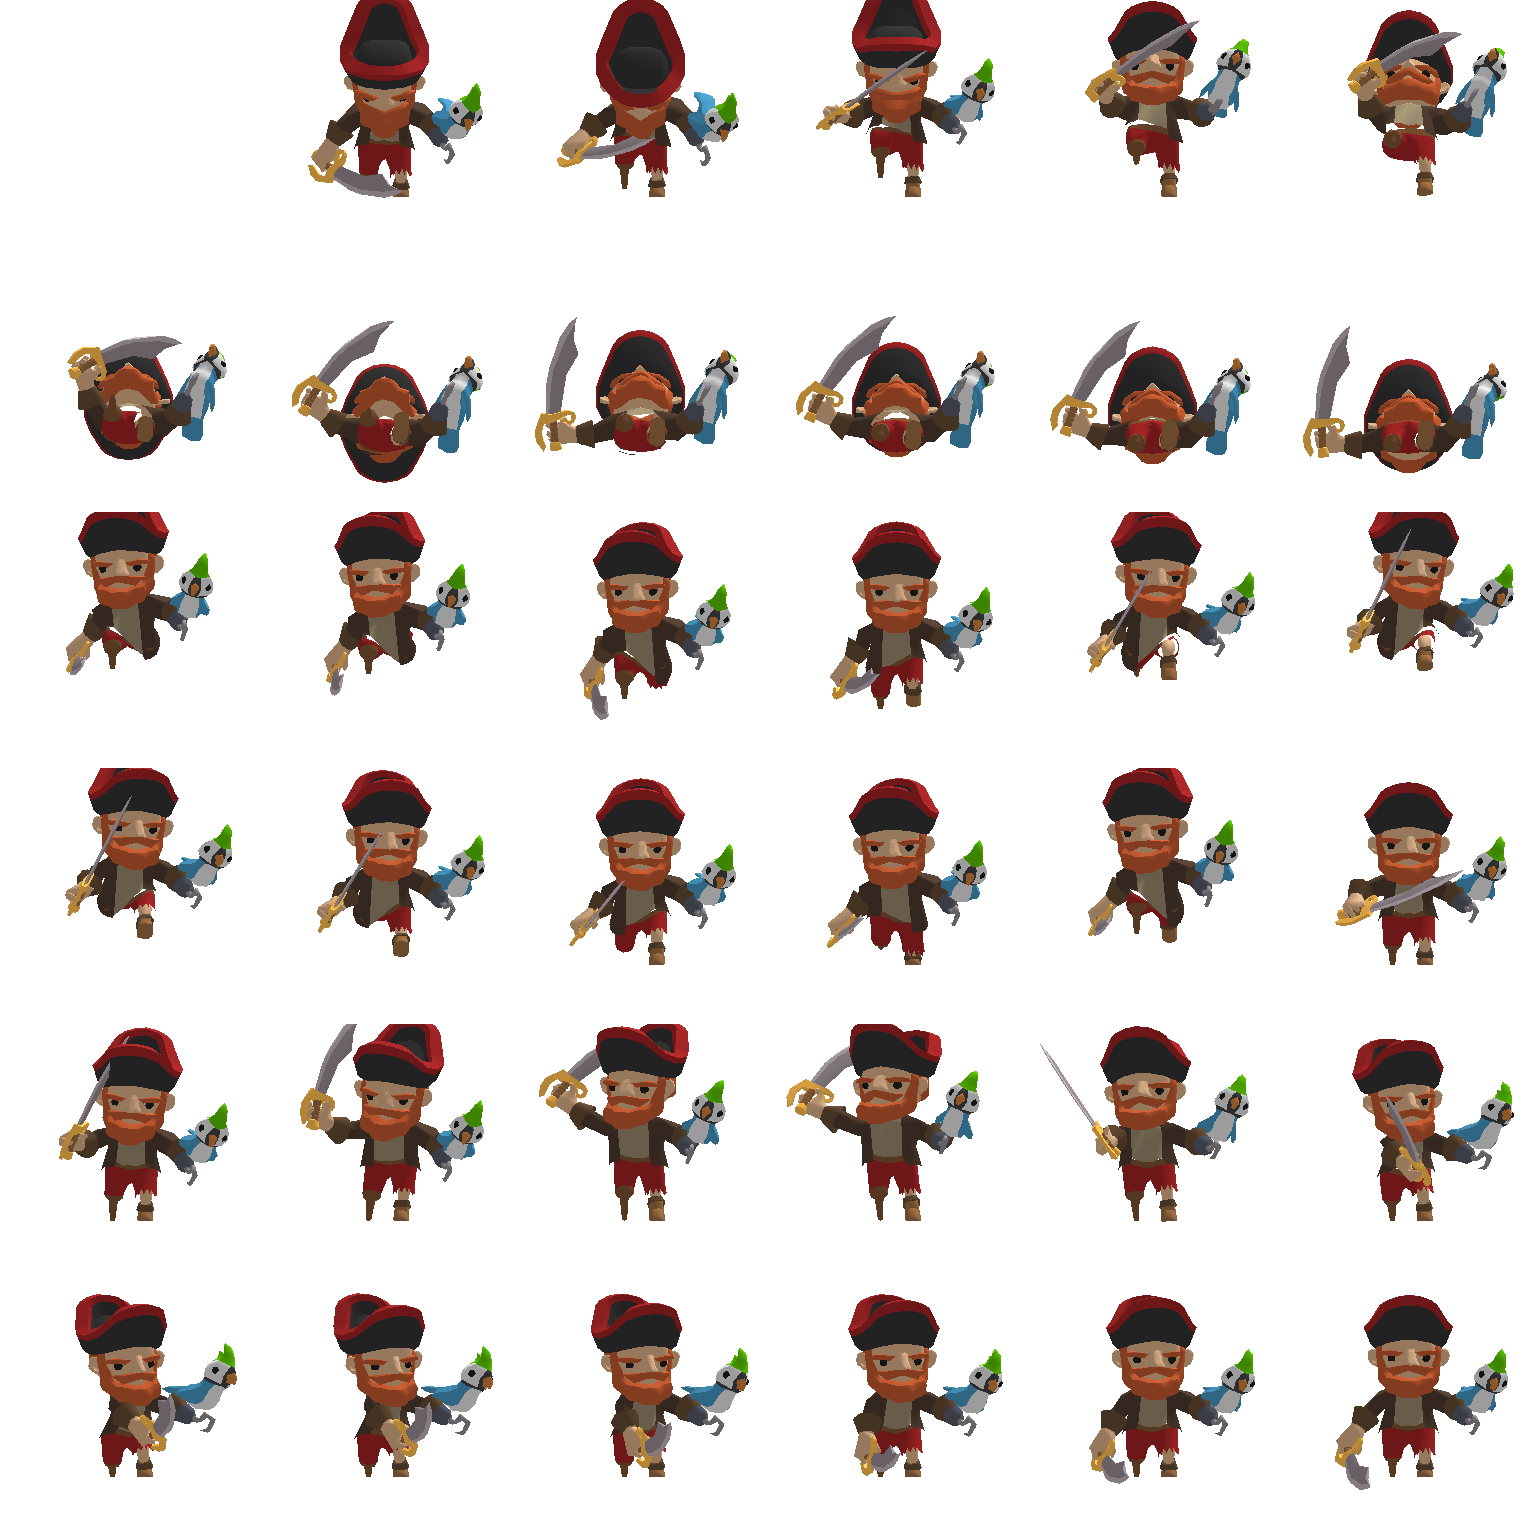
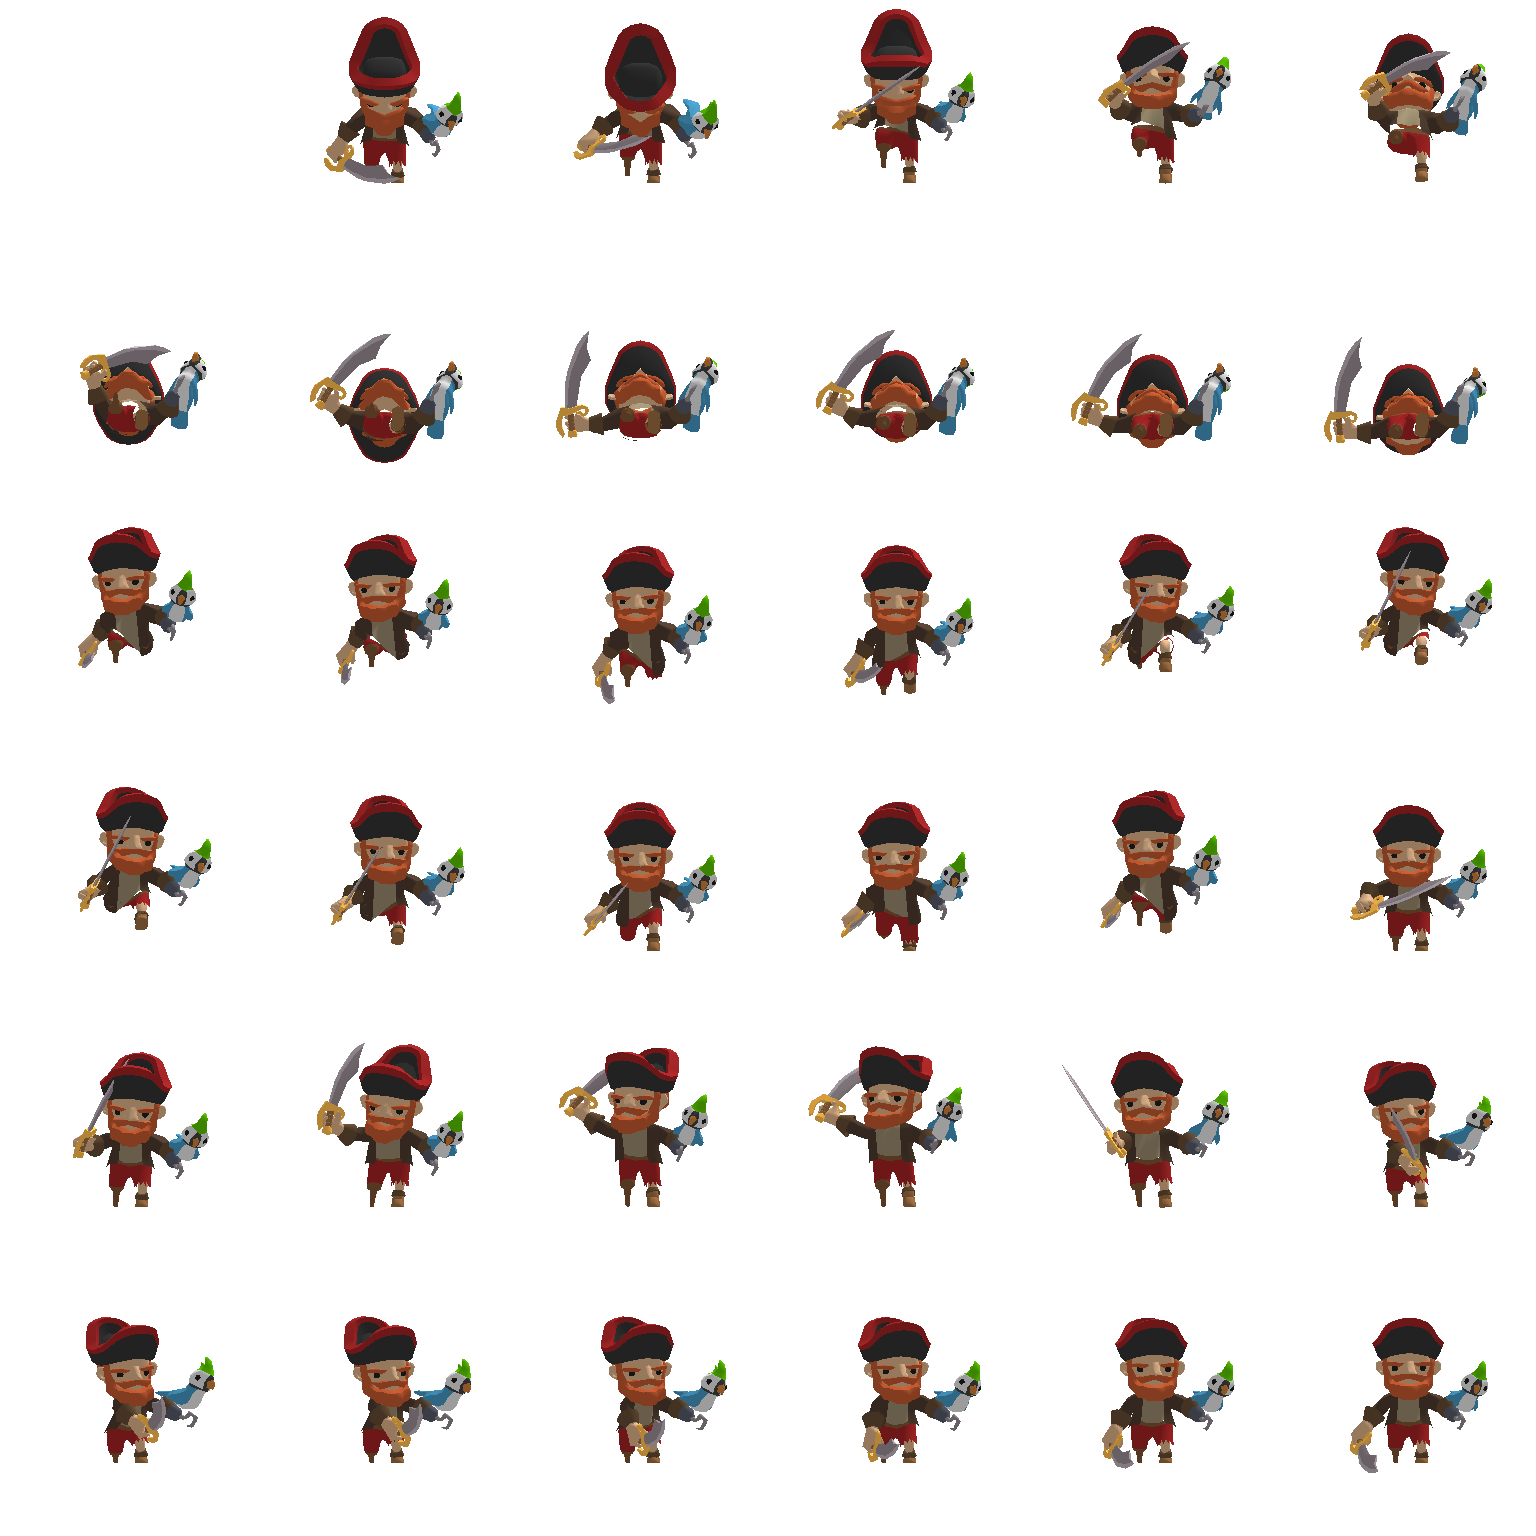
Editor: expose flipbook framing width/height; rebake captain atlas
The captain's hat was cropped at the top of the cell because the auto-fitted
orthographic framing did not cover the tall silhouette. Expose per-axis framing
multipliers so the box can be enlarged by hand instead of only relying on the
automatic fit.

- FlipbookBaker: add frameScaleX_/frameScaleY_ to FlipbookBakeParams (default 1 =
  auto-fit unchanged). The orthographic cell view now uses half height = orthoSize
  and half width = orthoSize * aspectRatio, so width and height scale
  independently. PlanAtlas reads the params; Reset restores the defaults.
- ResourceBrowserTab: add Frame W / Frame H inputs to the Bake Animation Flipbook
  dialog and forward them to the baker (clamped to 0.1..8), with a hint that
  raising Frame H fits tall hats / raised weapons.
- Rebake Characters_Captain_Barbarossa.flipbook.png with a taller frame so the
  hat is no longer cut off.

Built with cmake --build msvc --target Editor --config Release (exit 0, no errors).

diff --git a/Source/Urho3D/Graphics/FlipbookBaker.cpp b/Source/Urho3D/Graphics/FlipbookBaker.cpp
@@ -89,6 +89,7 @@ void FlipbookBaker::Reset()
     fps_ = 15.0f;
     cellSize_ = 256;
     rotations_ = 1;
+    frameScaleX_ = frameScaleY_ = 1.0f;
     yawRad_ = 0.0f;
     ClearBakeState();
     outputPath_.clear();
@@ -123,6 +124,8 @@ bool FlipbookBaker::PlanAtlas(Model* model, const ea::vector<Animation*>& animat
     fps_ = params.fps_ > 0.0f ? params.fps_ : 15.0f;
     cellSize_ = params.cellSize_ ? params.cellSize_ : 256;
     rotations_ = params.rotations_ ? params.rotations_ : 1;
+    frameScaleX_ = params.frameScaleX_ > 0.0f ? params.frameScaleX_ : 1.0f;
+    frameScaleY_ = params.frameScaleY_ > 0.0f ? params.frameScaleY_ : 1.0f;
     yawRad_ = params.yaw_ * (2.0f * M_PI) / 360.0f;
 
     // Assign consecutive cell ranges to the clips (frames * rotations each) at the requested fps.
@@ -245,7 +248,13 @@ bool FlipbookBaker::BuildBakeScene(Model* model)
     // large range of motion (death falls, overhead axe swings) would otherwise overflow their cell
     // and bleed into neighbouring cells of the atlas.
     ComputeBakeFraming(model);
-    camera_->SetOrthoSize(bakeRadius_ * 1.15f);
+    // The auto-fitted view is square (half extent = bakeRadius_ * 1.15). The frame multipliers let the
+    // editor widen / heighten that box independently, so tall silhouettes are not cropped at the top.
+    // Urho3D's ortho size is the vertical half extent and half width = orthoSize * aspectRatio.
+    const float halfHeight = bakeRadius_ * 1.15f * frameScaleY_;
+    const float halfWidth = bakeRadius_ * 1.15f * frameScaleX_;
+    camera_->SetOrthoSize(halfHeight);
+    camera_->SetAspectRatio(halfWidth / Max(halfHeight, M_EPSILON));
     camera_->SetNearClip(Max(0.01f, bakeRadius_));
     camera_->SetFarClip(bakeRadius_ * 8.0f + 1.0f);
 

diff --git a/Source/Editor/Tabs/ResourceBrowserTab.cpp b/Source/Editor/Tabs/ResourceBrowserTab.cpp
@@ -1211,6 +1211,8 @@ void ResourceBrowserTab::StartFlipbookBake()
     params.cellSize_ = static_cast<unsigned>(Clamp(flipbookBake_.cellSize_, 16, 2048));
     params.rotations_ = static_cast<unsigned>(Clamp(flipbookBake_.rotations_, 1, 64));
     params.yaw_ = flipbookBake_.yaw_;
+    params.frameScaleX_ = Clamp(flipbookBake_.frameScaleX_, 0.1f, 8.0f);
+    params.frameScaleY_ = Clamp(flipbookBake_.frameScaleY_, 0.1f, 8.0f);
 
     // Optional bake material: the offscreen model is rendered with it so the atlas carries the
     // real colors (vertex-color / atlas materials); left empty, the model's own slots apply.
@@ -1301,6 +1303,16 @@ void ResourceBrowserTab::RenderFlipbookBakeDialog()
         ui::SameLine();
         ui::SetNextItemWidth(90.0f);
         ui::InputFloat("Yaw", &flipbookBake_.yaw_);
+
+        // Framing overrides: scale the auto-fitted orthographic view box per axis. Raising Frame H is
+        // the fix when a tall silhouette (a captain's hat, a raised weapon) gets cropped at the top.
+        ui::SetNextItemWidth(90.0f);
+        ui::InputFloat("Frame W", &flipbookBake_.frameScaleX_, 0.0f, 0.0f, "%.2f");
+        ui::SameLine();
+        ui::SetNextItemWidth(90.0f);
+        ui::InputFloat("Frame H", &flipbookBake_.frameScaleY_, 0.0f, 0.0f, "%.2f");
+        ui::TextWrapped("Frame W/H: scale the auto-fitted view box (1 = unchanged). Raise Frame H if a tall "
+            "silhouette (hat, raised weapon) is cropped at the top of a cell.");
 
         // Bake material picker: required for models whose color lives in vertex colors or an
         // external atlas (the offscreen render would otherwise come out flat gray).

diff --git a/Source/Urho3D/Graphics/FlipbookBaker.h b/Source/Urho3D/Graphics/FlipbookBaker.h
@@ -72,6 +72,11 @@ struct FlipbookBakeParams
     /// Yaw in degrees applied to the model node around the Y axis before baking. Models whose
     /// front faces -Z (e.g. Quaternius FBX convention) need 180 so the view shows the face, not the back.
     float yaw_{180.0f};
+    /// Independent width / height multipliers on the auto-fitted orthographic cell view (1 = the
+    /// automatic framing unchanged). Raise the height to fit tall silhouettes (e.g. a captain's hat
+    /// or an overhead weapon) that the automatic framing would otherwise crop at the cell's top.
+    float frameScaleX_{1.0f};
+    float frameScaleY_{1.0f};
     /// Hard upper bound on the atlas width in texels (the column count is clamped to respect it).
     unsigned maxAtlasWidth_{2048};
 };
@@ -212,6 +217,9 @@ private:
     float fps_{15.0f};
     unsigned cellSize_{256};
     unsigned rotations_{1};
+    /// Framing multipliers applied to the orthographic cell view (from FlipbookBakeParams).
+    float frameScaleX_{1.0f};
+    float frameScaleY_{1.0f};
     /// Radians the model node is rotated around Y during the bake (from FlipbookBakeParams::yaw_).
     float yawRad_{0.0f};
     unsigned columns_{1};

diff --git a/Source/Editor/Tabs/ResourceBrowserTab.h b/Source/Editor/Tabs/ResourceBrowserTab.h
@@ -305,6 +305,8 @@ private:
         int cellSize_{256};
         int rotations_{1};
         float yaw_{180.0f};            // camera orbit start angle (Quaternius fronts face -Z)
+        float frameScaleX_{1.0f};      // orthographic framing width multiplier (1 = auto-fit unchanged)
+        float frameScaleY_{1.0f};      // orthographic framing height multiplier; raise to fit tall hats/weapons
         StringHash materialType_{"Material"};  // resource-reference picker type for the bake material
         ea::string materialName_;              // optional material applied to the model while baking
         bool openPending_{};
